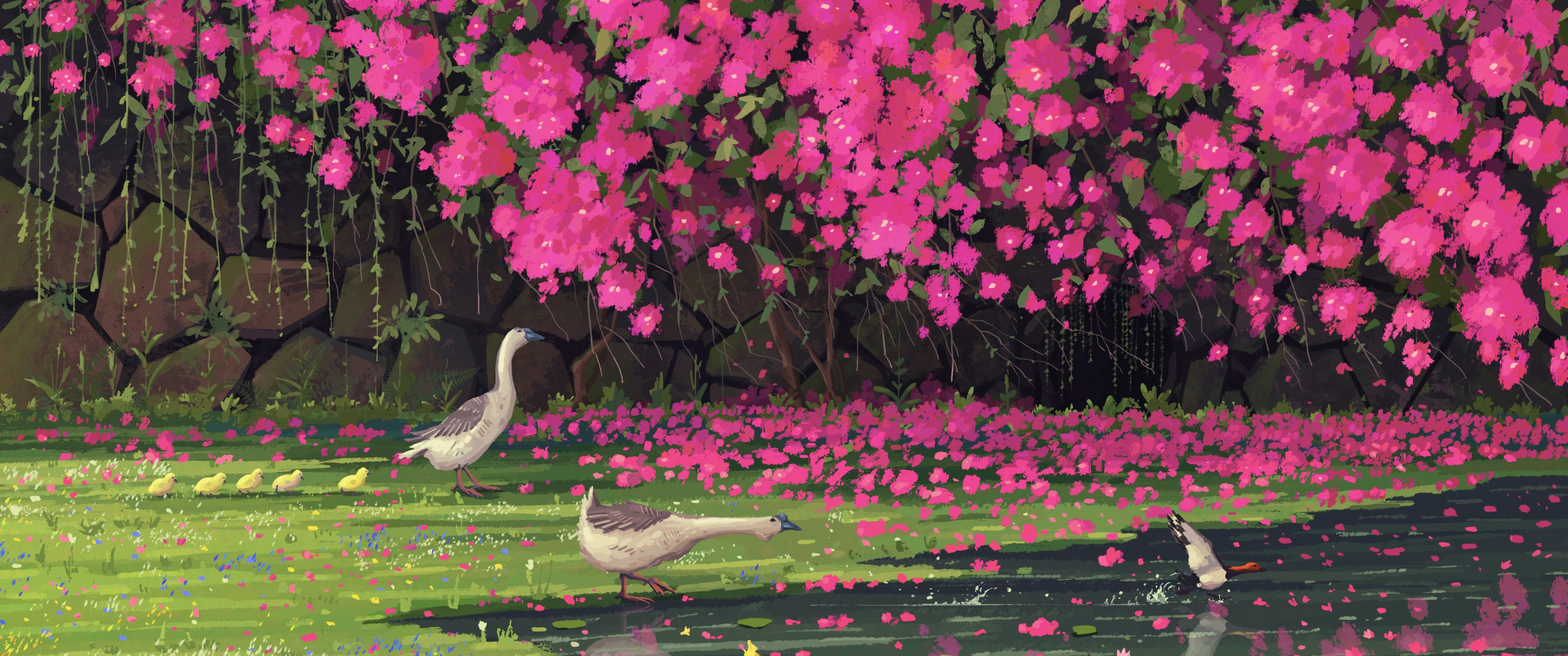
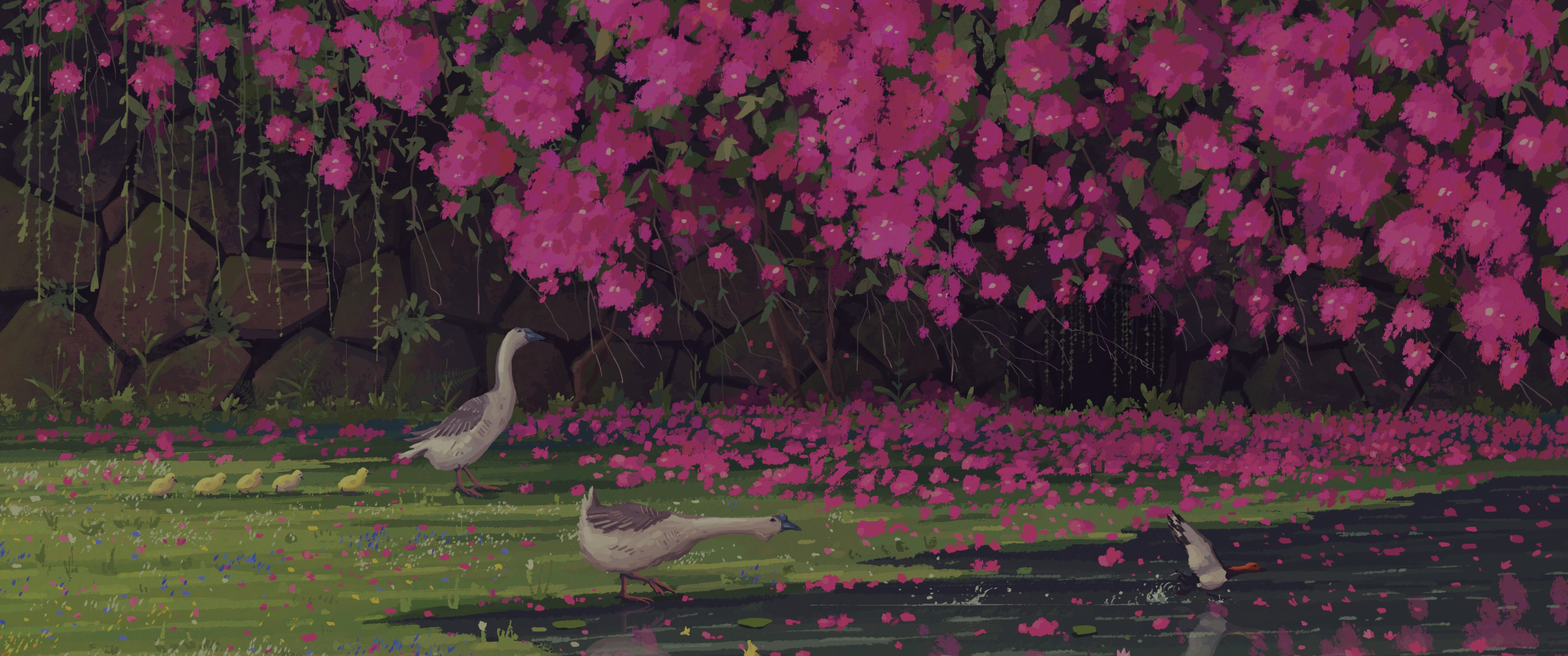
feat(sway): wash the wallpapers in callie's background color

diff --git a/docs/sway.md b/docs/sway.md
@@ -31,7 +31,13 @@ session, and quitting sway would end the Plasma session with it.
 
 ### Wallpaper
 
-The wallpaper is `pond`, installed with the dotfiles to `~/.local/share/wallpapers`. The config sets `$wallpaper` to `pond.jpg` (3440x1440), and each laptop's section of `machine.conf.tmpl` switches it to `pond-laptop.jpg` (2560x1600, the laptops' 16:10). Both are JPEGs, to keep the repo small.
+The wallpaper is `pond`, installed with the dotfiles to `~/.local/share/wallpapers`. The config sets `$wallpaper` to `pond.jpg` (3440x1440), and each laptop's section of `machine.conf.tmpl` switches it to `pond-laptop.jpg` (2560x1600, the laptops' 16:10). Both are JPEGs, to keep the repo small, with a 40% wash of Callie's background color (`#1c1220`) baked in so the painting sits with the rest of the theme. To remake one from its original PNG:
+
+```bash
+magick pond.png -alpha off \( +clone -fill '#1c1220' -colorize 100 -alpha set \
+  -channel A -evaluate set 40% +channel \) -composite -strip -quality 92 \
+  -sampling-factor 4:4:4 pond.jpg
+```
 
 ### Look
 
